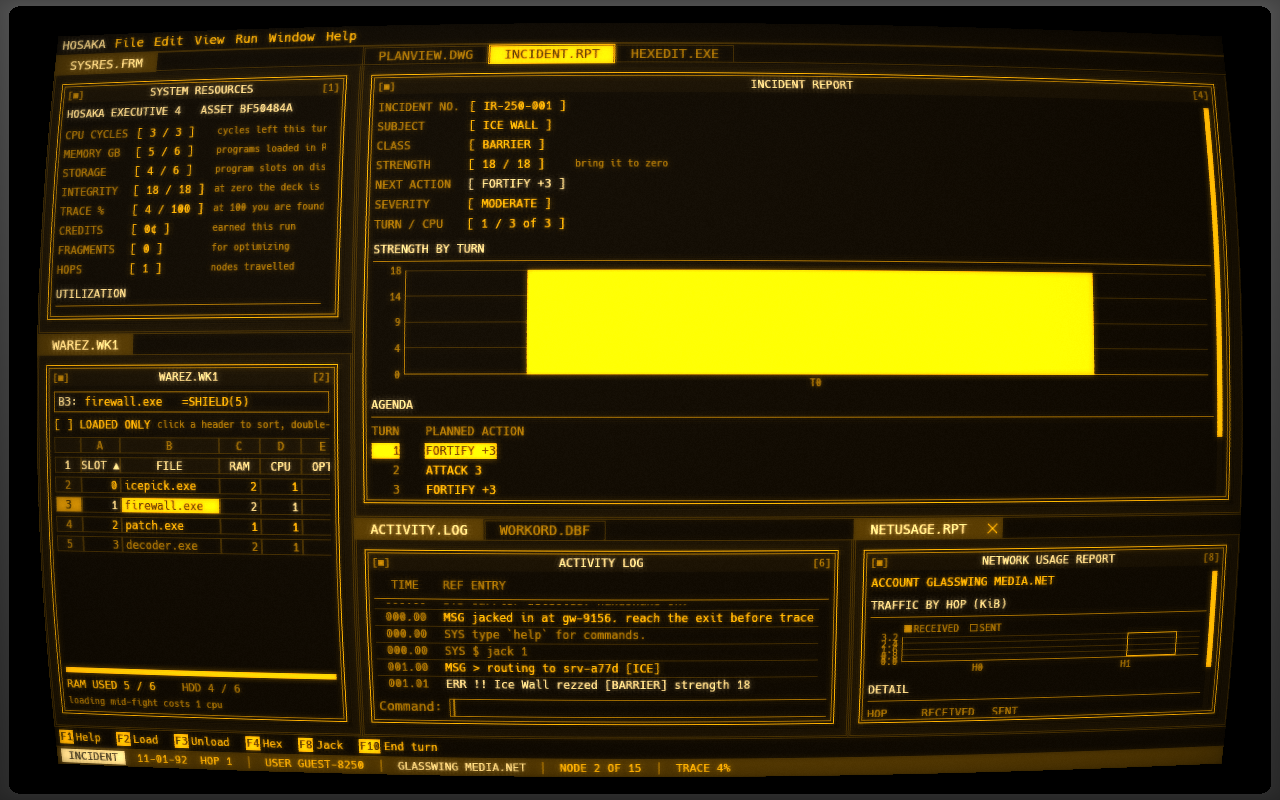
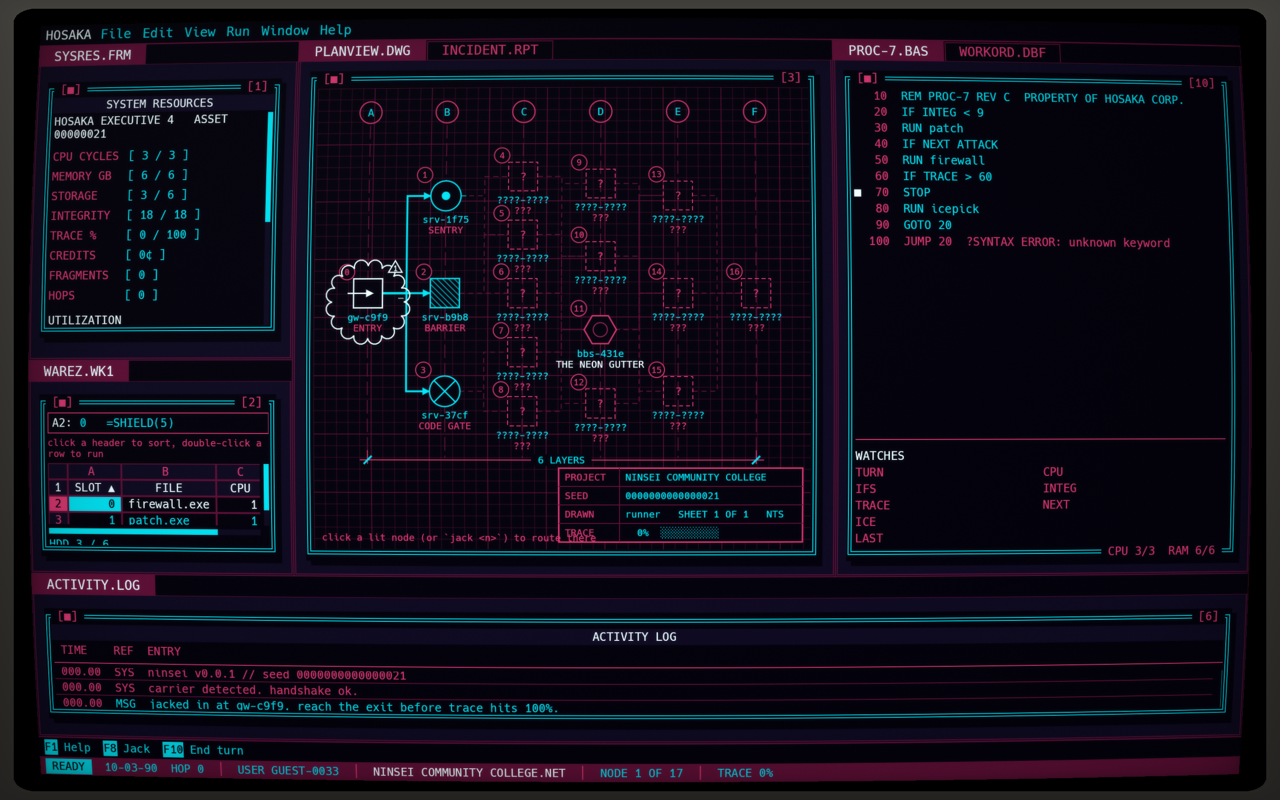
docs: step 6 — shots, review, docs
PROC-7.BAS in and out of an incident on amber and Synthwave, and the suite's run shot retaken. The review gave the windows over the activity log and the resources form more room, so the form reads whole. design.md marks the Hosaka built and corrects its F-keys (F8 Step, F4 Pause; never F7), and architecture.md describes the shared listing and the Module window.

diff --git a/crates/app/src/suite.rs b/crates/app/src/suite.rs
@@ -1365,8 +1365,8 @@ const SUITE_MENUS: Menus = &[
 mod tiles {
     pub const LEFT: f32 = 0.22;
     pub const CENTRE_OF_REST: f32 = 0.56;
-    pub const OVER_LOG: f32 = 0.72;
-    pub const DECK: f32 = 0.55;
+    pub const OVER_LOG: f32 = 0.77;
+    pub const DECK: f32 = 0.6;
     pub const LOG_OF_BOTTOM: f32 = 0.6;
 }
 

diff --git a/docs/architecture.md b/docs/architecture.md
@@ -88,12 +88,12 @@ Monitors and decks live in `data/hub/hardware.ron` (`HardwareDef::validate`); wh
 
 ## The run screen
 
-- **Chromes are plug-ins.** A firmware's `hardware::Chrome` picks how the run screen is dressed; `crates/app/src/chrome.rs` maps it to a `ChromeView` (`chrome::view`): one method per pane, plus tab titles, menus (arranged from shared `MenuPart`s), the status line, an optional bar under the panes, keys, an overlay and the default layout. Every method defaults to Classic, so a new chrome is a `Chrome` variant plus a `ChromeView` that overrides only what it changes. Never test the chrome in a pane; ask the view. `btop.rs` (`Chrome::Btop`), `suite.rs` (`Chrome::Suite`, the Hosaka) and `stack.rs` (`Chrome::Stack`, the Sense/Net: HyperCard, 1-bit; `ChromeView::one_bit` keeps glitches from splitting colour, `ChromeView::palette` folds the run to ink on paper, `ChromeView::dock_style` dresses the panels as HyperCard windows, and its **Script pane** is the **Script card**, on screen the whole run beside the ICE card: `ninsei_core::stack_fight::card` decides it (with `Card::fighting` and `Card::budget_words`: the budgets left this turn in a fight, the deck's limits a turn outside one, where Step, Run and Pause stay greyed) (the program's lines as `Block`s with their `Field`s, pop-up menus that list only the disk and number fields, the ▶ on the line about to run, which of Step, Run and Pause can be pressed, and the budgets in words), and `stack_fight::{set_field, add, insert_before, remove, swap}` turn an edit into one `Action::Program` with one line rewritten, so the card holds nothing of its own; `stack.rs` only draws it with the Liza kit (`popup_menu`, `text_field`, `dotted`, `push_button`), scrolling rows of their own heights a whole row at a time, a palette chip clicked or dragged (egui's drag and drop, `BlockKind` the payload) to add a block, a click on a block selecting it (view state in egui memory, by line number, dropped when the line goes) for the palette's move and clear boxes (`stack_fight::moved_to` says where a moved block lands, so the selection follows it), the Deck card's bars sized to the column (`bar_width`), and its keys through `ChromeView::keys` before the shared hotkeys: Enter presses Run, Esc pauses a running program and never closes anything) are the three so far; the suite's rules (sheet sorting, formulas, axes, work-order totals, dialogs via `suite::Watch`) live in core's `suite.rs`. The btop chrome's **Script pane** is the **`ice.bas` tile** (`btop::script`), on screen the whole run in the right column of its three-column default layout (deck.sys over warez/, the map, `ice.bas` in front of todo, over the terminal): `ninsei_core::btop_fight` decides it (`rows`: each line's number, text, gutter mark (`Gutter::Current` ▶, `Gutter::Stop` ●), dimming and fault, stray text last; `note`: `cpu 2/3  ram 4/6`, the deck's limits outside a fight; `keys`: which of run, step, continue and pause press; `home`/`moved`/`open_after` for the cursor and a new line's number, through `basic::Program::free_line_between`, which the Stack's drop shares; `retype`/`delete` turn an edit into one `Action::Program` with one line rewritten), and the app only draws it on the chrome's cells (`btop::boxed_lit`, its border lit while it has the keys) and routes keys. The tile's keyboard focus is an egui focus id (`script::id`, taken by a click, its arrows, Tab and Esc locked to it); its letters are read in `ChromeView::keys` before the shared hotkeys and only while it has the focus, and they and every typed character are taken out of the frame, so the terminal types whenever the tile isn't focused; `ChromeView::script_has_keys` tells the shared hotkeys a pane holds the keys without typing, so Space and the digits still work the hotbar. Retyping a line puts a `ninsei_term::widget::line` over that row under its own focus id (`script::edit_id`), which holds the keyboard like any typing (Enter commits, Esc or a click away puts the old text back). View state (the cursor and the line being retyped, by line number, and a `kit::List` for the window, which keeps the row being retyped, the cursor while focused, or the line about to run in view and takes the wheel a fraction of a row at a time) is egui memory. Which keys press, editor keys included, and the legend at the tile's foot are core's (`btop_fight::keys`, `Keys::legend`). The btop chrome (`crates/app/src/btop.rs`) keeps its timings in `btop::anim` and colours its gradients with `btop::ramp` (`faint → dim → fg → bright`); dot-graph maths is `history::plot`, tested in core; the font has no braille, so the app paints the dots. Both chromes lay their frames out on the kit's cells in their own 12pt type: btop's boxes (`btop::boxed`: the border through the outer cells, the title turned into the top edge `┐title┌` and a note turned up into the bottom one `┘note└`, both cut with `…` to fit, the body 10px and 12px inside the line as before, and always drawn, however small the box) meters (`Cells::gauge` with dotted unlit cells: a little thinner than the old meter and square-cornered, the kit's cell) and the warez table, whose NAME is as wide as the widest real name, dropping CPU before it would slice one; the suite's document window (`suite::window`: the kit's double frame with `[■]` and `[n]` set in its top edge, a heading row only for a document's own title, never repeating its tab, a 5px shadow, and the body always drawn), its status line and F-key legend (one-row kit sheets), its dialogs' bodies (a sheet, lines wrapped), its activity log (whole rows of cells through `ScrollArea::show_rows`, only the rows in view painted), and its spreadsheet, whose columns come from core's `suite::sheet_widths` (each its widest real value and its header with a sort arrow, a cell of padding either side), so nothing is cut at a clip rect.
+- **Chromes are plug-ins.** A firmware's `hardware::Chrome` picks how the run screen is dressed; `crates/app/src/chrome.rs` maps it to a `ChromeView` (`chrome::view`): one method per pane, plus tab titles, menus (arranged from shared `MenuPart`s), the status line, an optional bar under the panes, keys, an overlay and the default layout. Every method defaults to Classic, so a new chrome is a `Chrome` variant plus a `ChromeView` that overrides only what it changes. Never test the chrome in a pane; ask the view. `btop.rs` (`Chrome::Btop`), `suite.rs` (`Chrome::Suite`, the Hosaka) and `stack.rs` (`Chrome::Stack`, the Sense/Net: HyperCard, 1-bit; `ChromeView::one_bit` keeps glitches from splitting colour, `ChromeView::palette` folds the run to ink on paper, `ChromeView::dock_style` dresses the panels as HyperCard windows, and its **Script pane** is the **Script card**, on screen the whole run beside the ICE card: `ninsei_core::stack_fight::card` decides it (with `Card::fighting` and `Card::budget_words`: the budgets left this turn in a fight, the deck's limits a turn outside one, where Step, Run and Pause stay greyed) (the program's lines as `Block`s with their `Field`s, pop-up menus that list only the disk and number fields, the ▶ on the line about to run, which of Step, Run and Pause can be pressed, and the budgets in words), and `stack_fight::{set_field, add, insert_before, remove, swap}` turn an edit into one `Action::Program` with one line rewritten, so the card holds nothing of its own; `stack.rs` only draws it with the Liza kit (`popup_menu`, `text_field`, `dotted`, `push_button`), scrolling rows of their own heights a whole row at a time, a palette chip clicked or dragged (egui's drag and drop, `BlockKind` the payload) to add a block, a click on a block selecting it (view state in egui memory, by line number, dropped when the line goes) for the palette's move and clear boxes (`stack_fight::moved_to` says where a moved block lands, so the selection follows it), the Deck card's bars sized to the column (`bar_width`), and its keys through `ChromeView::keys` before the shared hotkeys: Enter presses Run, Esc pauses a running program and never closes anything) are the three so far; the suite's Script pane is the **`PROC-7.BAS` Module window** (`suite_script`): Turbo Debugger's listing over a Watches strip in one `suite::window_with` (its double rule lit while active, `CPU 3/3  RAM 6/6` in its bottom edge), from core's `suite::{module_mark, module_note, watches}`; its F-keys come from core's `suite::Legend::keys`, one table for the legend and the keys, swapped to the Module window's (F2 Edit, F4 Pause, F8 Step, F9 Run) while it holds the keys and back to the suite's (F4 Hex, F8 Jack) otherwise, `suite::fkey_live` dimming a key that presses nothing; each step of a pass is a `LogKind::Program` line, filed as `PRG` in its activity log; the suite's rules (sheet sorting, formulas, axes, work-order totals, dialogs via `suite::Watch`) live in core's `suite.rs`. Both text decks' Script panes are **listings** on the kit's `kit::listing::Listing`, decided by core's `listing` (rows with their gutter marks and faults, which debugger and editor keys press, the cursor's home and moves, a new line's number through `basic::Program::free_line_between`, and every edit as one `Action::Program` with one line rewritten): the listing keeps the pane's focus id and view state (cursor, a `kit::List` window, the line being retyped), takes its keys through a deck's `Bind` table, drops the typing the pane holds the keys for, and puts a `ninsei_term` line editor over a retyped row; each deck only draws the rows in its look and names its keys. The btop chrome's **Script pane** is the **`ice.bas` tile** (`btop::script`), on screen the whole run in the right column of its three-column default layout (deck.sys over warez/, the map, `ice.bas` in front of todo, over the terminal): `ninsei_core::btop_fight` decides it (`rows`: each line's number, text, gutter mark (`Gutter::Current` ▶, `Gutter::Stop` ●), dimming and fault, stray text last; `note`: `cpu 2/3  ram 4/6`, the deck's limits outside a fight; `keys`: which of run, step, continue and pause press; `home`/`moved`/`open_after` for the cursor and a new line's number, through `basic::Program::free_line_between`, which the Stack's drop shares; `retype`/`delete` turn an edit into one `Action::Program` with one line rewritten), and the app only draws it on the chrome's cells (`btop::boxed_lit`, its border lit while it has the keys) and routes keys. The tile's keyboard focus is an egui focus id (`script::id`, taken by a click, its arrows, Tab and Esc locked to it); its letters are read in `ChromeView::keys` before the shared hotkeys and only while it has the focus, and they and every typed character are taken out of the frame, so the terminal types whenever the tile isn't focused; `ChromeView::script_has_keys` tells the shared hotkeys a pane holds the keys without typing, so Space and the digits still work the hotbar. Retyping a line puts a `ninsei_term::widget::line` over that row under its own focus id (`script::edit_id`), which holds the keyboard like any typing (Enter commits, Esc or a click away puts the old text back). View state (the cursor and the line being retyped, by line number, and a `kit::List` for the window, which keeps the row being retyped, the cursor while focused, or the line about to run in view and takes the wheel a fraction of a row at a time) is egui memory. Which keys press, editor keys included, and the legend at the tile's foot are core's (`btop_fight::keys`, `Keys::legend`). The btop chrome (`crates/app/src/btop.rs`) keeps its timings in `btop::anim` and colours its gradients with `btop::ramp` (`faint → dim → fg → bright`); dot-graph maths is `history::plot`, tested in core; the font has no braille, so the app paints the dots. Both chromes lay their frames out on the kit's cells in their own 12pt type: btop's boxes (`btop::boxed`: the border through the outer cells, the title turned into the top edge `┐title┌` and a note turned up into the bottom one `┘note└`, both cut with `…` to fit, the body 10px and 12px inside the line as before, and always drawn, however small the box) meters (`Cells::gauge` with dotted unlit cells: a little thinner than the old meter and square-cornered, the kit's cell) and the warez table, whose NAME is as wide as the widest real name, dropping CPU before it would slice one; the suite's document window (`suite::window`: the kit's double frame with `[■]` and `[n]` set in its top edge, a heading row only for a document's own title, never repeating its tab, a 5px shadow, and the body always drawn), its status line and F-key legend (one-row kit sheets), its dialogs' bodies (a sheet, lines wrapped), its activity log (whole rows of cells through `ScrollArea::show_rows`, only the rows in view painted), and its spreadsheet, whose columns come from core's `suite::sheet_widths` (each its widest real value and its header with a sort arrow, a cell of padding either side), so nothing is cut at a clip rect.
 - **The sound pop-out is the chrome's.** Every run screen has one control for the sound: the level (`Save::volume`, a percentage, full by default) and the switch (`Save::sound`, the same one the System app shows). `crates/app/src/volume.rs` holds what's shared: `volume::Level` read from the save, `volume::Popup` (open, and what was set when it opened, so a Cancel can put it back), `Level::to` turning a change into `Request::Volume` and `Request::SoundOn`, and `volume::start`/`volume::keys`, which take the keyboard from the command line while it's open (the run's hotkeys, the chrome's keys and the terminal's focus all stand back; however it closes, the command line gets the keys back). It never opens over something that already has the keyboard (`App::modal_up`: a BBS, a conversation, a suite notice), and one of those coming up closes it. `volume::hit` names a control drawn in cells or pixels. The chrome opens and dresses it: a `MenuPart::Sound` item worded by `ChromeView::sound_item`, and `ChromeView::sound`, drawn over the overlay while it's open. The classic default is a small window with a slider; btop puts a bar-module speaker in its status line (`ChromeView::status_extra`, which gets a `FrameCx` and returns requests) that opens a box of whole cells over it; the suite has Edit > Sound..., a dialog with OK and Cancel, drawn by the same `suite::dialog` and `suite::buttons` as its notices; Liza has View > Control Panel..., the Mac's Speaker Volume slider (0 to 7) and a Sound box in a striped window (`liza::window_frame`). Notches map to the level through core's `hub::volume_notch` and `hub::notch_volume`. The pop-out only pushes requests; `main.rs` applies them to the save and the speaker.
 - **Panes are modular, and secondary panes are owned.** `panes::Tab` lists every pane: `Tab::CORE` are always there; `Tab::SECONDARY` pairs each extra pane with its id in `data/hub/panes.ron` (`PaneDef`). A secondary pane is available when bought in RIG (`Save::buy_pane`, `Save::panes`) or bundled with the firmware (`FirmwareDef::panes`); read it with `Save::has_pane`. A new pane is a variant, an id, a catalog entry and a renderer, dressed by each chrome (`ChromeView::net` is the pattern). `Tab::Script` is a core pane: the deck's program, on screen from a run's first frame, dressed by `ChromeView::script` (the classic dress is the terminal's `prog` listing until a deck designs its own; the Stack's is the Script card, below under Chromes). The two secondary panes so far are `net` (traffic, bundled with Cyberspace 7.0) and `vis` (`Tab::Vis`, sold only): what the speaker is playing, from `Panes::hear`, which calls `Speaker::listen` only when a vis pane is drawn (a tab behind another one never asks), and `vispane::alive` asks for frames only while something is heard. It never reads the game. The maths is core's `scope.rs` (a Hann-weighted radix-2 FFT into bars spaced evenly in pitch, levels in dB, and `ballistics`: bars jump up and fall at `FALL_PER_SEC`). `vispane.rs` has the shared parts: the trace, `bars` (asks for frames only while a bar is still falling, so silence is still), and `held` (numbers take a new reading every `HOLD_SECS`, so they never strobe). btop draws a box of cell columns (`Cells::meter_up`), the suite a SOUND LEVEL REPORT (a form and a band chart in dB), and the Stack chrome (the Sense/Net) a 1-bit Scope card with a dotted ink graticule. The default layout is the chrome's (`ChromeView::default_layout`) with the panes the player has; the player's layout is saved per firmware (keyed by maker and firmware id, so it follows a brand's models) in `Save::layouts` as opaque RON the app writes (`Save::set_layout`/`layout`, core never parses it). Anything that won't read back or lacks a core pane falls back to the default, and panes the player doesn't have are dropped (`parse_layout`).
 - **The network map has three views.** `crates/app/src/netmap.rs` holds what they share (fog, targets, tags, clicks, the hint) and hands off to `netmap_iso.rs` (wireframes over a grid), `netmap_draft.rs` (a flat technical drawing) or `netmap_paint.rs` (a 1-bit picture, nodes filled with patterns from `data/patterns.ron`, two colours only), picked by the deck's firmware (`Save::firmware_def(..).map`). Shapes, symbols and paint fills per node kind are data (`data/netmap.ron`, `MapStyleDef::validate`, paint fills checked against the patterns); meshes, the isometric camera (`Iso`) and node placement (`netview::flat_layout`) live in core (`netview.rs`) and are tested there. Map colours come from the palette: grid `faint`, wires `fg`, fills `dim`, highlights `bright`. Map animation (derez bursts, the jack-in sweep, trace pressure, hover) lives in `netmap::Anim`, remembered in egui's memory rather than the game, with every timing in `netmap::anim`; the hop trail comes from `Game::travelled`.
 - **Fights have a view; the preview is the rule.** `Game::preview(slot)` (`crates/core/src/fight.rs`) says what running a program would do now or why it can't, and `Action::Run` resolves through it, so a hint can never disagree with what happens. Nothing loads: every program on the HDD can run (`Slot` has no loaded flag, warez have no RAM cost, binary byte 07 is reserved, and the hex editor's budget is `BUDGET_PER_CPU * cpu + BUDGET_PER_OPT * opt`).
-- **Fights run a program** (design: `docs/design.md`, "Fights: the deck runs a program"). The language is `crates/core/src/basic.rs`: `basic::parse` turns text into a `Program` of numbered `Line`s (`Stmt::Run`, `If(Cond)`, `Goto`, `Stop`, `Rem`, and `Bad` for a line that doesn't parse, kept and skipped so a typo never halts a fight; `Program::fault` names what's wrong, a GOTO to nowhere included; text with no line number is `Program::stray`, kept as typed and never run), `Program::text` prints it back, `set_line`/`remove` edit it, and `basic::names` says what a program name in a RUN or HAVE matches (name, file name or factory id), for fights and validation alike; it knows nothing of a fight. The deck holds one program: `Save::program` (`None` until a run ends: the starting kit's, `StartsDef::program`, where a kit without one ships the default kit's, read with `Save::program_text`; `Data::validate` rejects a kit program with a bad line or a RUN or HAVE naming no warez through `hub::program_fault`), handed to the run as `Kit::program`, parsed into `Game::program` and written back by `Save::record` however the run ended. `Game::exec` (`Exec`: an `ExecState` of `Paused`, `Running` or `Stopped(line)`, the line about to run, and this turn's pass as `Step`s) is reset at each fight's start with the cursor on the first line. `Action::Step` runs one pass (`Game::pass`): from the top (or past a STOP) until the program ends, a STOP, the cycles run out or `Combat::ifs` (one GB of `deck.ram_max` per IF evaluated, reset each turn) is empty; each RUN finds its slot by name (`Game::slot_named`), asks `preview`, and is applied as `Action::Run`, so history and cues hear each one; then, unless it stopped or hung, `Action::EndTurn`. Each step is said in the log as it happens (`Game::step_text`; a RUN says nothing more than the program's own line), so the pass reads before what the ICE does after it. A pass that comes back to a line without running anything is a hang: `?BREAK IN <line>`, the debugger has the turn and the turn doesn't end. A false IF skips its line, and a skipped IF skips its own (two IFs in a row are an AND). `Action::Play` sets `Running` and runs a pass, and the app's frame loop plays a `Running` program a pass every `PASS_SECS` (`drive_program` in `main.rs`); `Pause` hands the turn back; after a STOP (`Stopped(line)`) the next Step or Play carries on past it in the same turn; `Program(text)` replaces the program at any time (after a STOP it carries on from the first line past it), and the hotbar's `Action::Run` works whatever the state. Views read `Game::program_view` (each line's text, the current line, STOP and fault marks, the budgets left, the pass) and `Game::step_text` (a pass's step as the OS says it, a sentence per line), and `Game::ifs_left` for the RAM meters. The run terminal drives it (`command.rs`: `prog` lists, through `command::listing`, `prog <n> <line>` types a line in, `prog <n>` deletes it, and `step`, `play` and `pause` are the actions). The Sense/Net's fight screen is the Stack chrome's Script pane (the Script card, under Chromes) and the Ono-Sendai's is the btop chrome's (the `ice.bas` tile, under Chromes; the terminal is its prompt); until another deck has its screen, its chrome keeps the hotbar fight. The wireframe's damage is core too (`fight::broken`, `edges_left`, `break_order`) and tested there. The Ono-Sendai's fight view (`crates/app/src/fightview.rs`) is what the btop chrome's map pane shows in `Phase::Combat` (`ChromeView::network`; `ChromeView::combat_tab` brings it forward). It only reads the game, keeps its animation state in egui memory and its timings in `fightview::anim`, and runs programs through `Panes::act`.
+- **Fights run a program** (design: `docs/design.md`, "Fights: the deck runs a program"). The language is `crates/core/src/basic.rs`: `basic::parse` turns text into a `Program` of numbered `Line`s (`Stmt::Run`, `If(Cond)`, `Goto`, `Stop`, `Rem`, and `Bad` for a line that doesn't parse, kept and skipped so a typo never halts a fight; `Program::fault` names what's wrong, a GOTO to nowhere included; text with no line number is `Program::stray`, kept as typed and never run), `Program::text` prints it back, `set_line`/`remove` edit it, and `basic::names` says what a program name in a RUN or HAVE matches (name, file name or factory id), for fights and validation alike; it knows nothing of a fight. The deck holds one program: `Save::program` (`None` until a run ends: the starting kit's, `StartsDef::program`, where a kit without one ships the default kit's, read with `Save::program_text`; `Data::validate` rejects a kit program with a bad line or a RUN or HAVE naming no warez through `hub::program_fault`), handed to the run as `Kit::program`, parsed into `Game::program` and written back by `Save::record` however the run ended. `Game::exec` (`Exec`: an `ExecState` of `Paused`, `Running` or `Stopped(line)`, the line about to run, and this turn's pass as `Step`s) is reset at each fight's start with the cursor on the first line. `Action::Step` runs one pass (`Game::pass`): from the top (or past a STOP) until the program ends, a STOP, the cycles run out or `Combat::ifs` (one GB of `deck.ram_max` per IF evaluated, reset each turn) is empty; each RUN finds its slot by name (`Game::slot_named`), asks `preview`, and is applied as `Action::Run`, so history and cues hear each one; then, unless it stopped or hung, `Action::EndTurn`. Each step is said in the log as it happens (`Game::step_text`; a RUN says nothing more than the program's own line), so the pass reads before what the ICE does after it. A pass that comes back to a line without running anything is a hang: `?BREAK IN <line>`, the debugger has the turn and the turn doesn't end. A false IF skips its line, and a skipped IF skips its own (two IFs in a row are an AND). `Action::Play` sets `Running` and runs a pass, and the app's frame loop plays a `Running` program a pass every `PASS_SECS` (`drive_program` in `main.rs`); `Pause` hands the turn back; after a STOP (`Stopped(line)`) the next Step or Play carries on past it in the same turn; `Program(text)` replaces the program at any time (after a STOP it carries on from the first line past it), and the hotbar's `Action::Run` works whatever the state. Views read `Game::program_view` (each line's text, the current line, STOP and fault marks, the budgets left, the pass) and `Game::step_text` (a pass's step as the OS says it, a sentence per line), and `Game::ifs_left` for the RAM meters. The run terminal drives it (`command.rs`: `prog` lists, through `command::listing`, `prog <n> <line>` types a line in, `prog <n>` deletes it, and `step`, `play` and `pause` are the actions). The Sense/Net's fight screen is the Stack chrome's Script pane (the Script card, under Chromes), the Ono-Sendai's is the btop chrome's (the `ice.bas` tile, under Chromes; the terminal is its prompt) and the Hosaka's the suite's (the `PROC-7.BAS` Module window, under Chromes; its trace is the activity log); a chrome that dresses no Script pane shows the `prog` listing. Each step of a pass is logged as `LogKind::Program`. The wireframe's damage is core too (`fight::broken`, `edges_left`, `break_order`) and tested there. The Ono-Sendai's fight view (`crates/app/src/fightview.rs`) is what the btop chrome's map pane shows in `Phase::Combat` (`ChromeView::network`; `ChromeView::combat_tab` brings it forward). It only reads the game, keeps its animation state in egui memory and its timings in `fightview::anim`, and runs programs through `Panes::act`.
 
 ## Terminals
 

diff --git a/docs/design.md b/docs/design.md
@@ -37,7 +37,7 @@ deck ─> firmware ─────┘
 | `sounds` | `sensenet`: square beeps, a warm chord, a gentle "boing", and a run soundtrack per network tier like a 1980s Mac adventure game: square tunes over triangle basses in major keys, gentle at tier 1 and uneasy at tier 3. As the trace climbs, a quiet triangle part drops out (the countermelody, the offbeat chords or the held line in thirds) and then the tempo rises ✅ | `ono`: harsh squares, noise bursts, chiptune arpeggios, and a looping chiptune soundtrack per network tier that thins out and speeds up as the trace climbs ✅ | `hosaka`: soft sine chimes, a polite ding, a tidy shutdown tune, and hold music for the runs: a tune per network tier in what an office plays while you wait (sine tunes over a bossa or walking bass, major sevenths, a polite tempo). Tier 1 is the lobby, tier 2 the department and tier 3 the executive floor, still polite but colder. As the trace climbs, the calm goes wrong while staying polite: the chords or the tune drop out and it turns hollow, then the hold music hurries ✅ |
 | volume | View > Control Panel...: the Mac's Speaker Volume slider (0 to 7) and a Sound check box, in a striped window with a close box ✅ | a speaker on the status line, as a bar module shows it, that opens a btop box over it: a meter, `- 70% +` cut into the edge, `[x] mute` ✅ | Edit > Sound...: a dialog with a Volume bar, a Mute box, OK and Cancel ✅ |
 | vis pane | a Scope card: a 1-bit oscilloscope in a field ✅ | a btop box: the spectrum in columns of cells along the gradient, the level in its edge ✅ | SOUNDLVL.RPT: a sound level report, level and peak on a form, the level by band as a bar chart ✅ |
-| fights | the ICE card (the ICE, its hotbar, End Turn) in the centre, and the deck's program as a stack of blocks with Step, Run, Pause in the Script pane beside it ✅ (see *Fights*) | the map dives into the node: the ICE as a wireframe over a horizon grid, a program hotbar with previews ✅, and the deck's program in the `ice.bas` tile beside it, debugged from its keys and the terminal ✅ (see *Fights*) | an incident report with a strength chart and an agenda ✅; next: a Turbo Debugger Module window and Watches |
+| fights | the ICE card (the ICE, its hotbar, End Turn) in the centre, and the deck's program as a stack of blocks with Step, Run, Pause in the Script pane beside it ✅ (see *Fights*) | the map dives into the node: the ICE as a wireframe over a horizon grid, a program hotbar with previews ✅, and the deck's program in the `ice.bas` tile beside it, debugged from its keys and the terminal ✅ (see *Fights*) | an incident report with a strength chart and an agenda ✅, and the deck's program as `PROC-7.BAS`, a Turbo Debugger Module window with Watches, its F-keys on the legend while it's active ✅ (see *Fights*) |
 | damage | 1-bit glitches: tearing and noise, never an RGB split ✅ (pattern smears and inverted rows: an idea) | screen glitches: tearing, RGB split, corrupted text ✅ | the same, plus corporate error dialogs (idea below) |
 | add-ons | Alarm Clock, a Calculator desk accessory under the eye, a desktop pattern, MultiFinder ✅ |  |  |
 | games | a window like any program's, titled by the copy's label (`Nibbler`, `NIBBLER [2K4]`), in Liza's two colours: the field in its frame, walls and covered squares in the 50% gray pattern, blocks outlined; a **Games** menu before Special lists each copy you own ✅ | a tile, labelled in lower case like the others (`blox [phs]`), from the launcher or `run blox`; the leader's keys stay the desktop's ✅ | a window titled with its version (`Minefield 1.1`), its icon among the others ✅ |
@@ -152,9 +152,9 @@ The two decks are a start. Each new one should be a new point of view, not a pal
 
 ## Fights: the deck runs a program
 
-*Designed 2026-11-07 (task 141.1, dossier at the task note). Built by 141.2 (core), 141.4–141.6 (one screen per deck) and 141.3 (ICE that answers back). Until a deck has its screen, its chrome keeps the hotbar fight. ✅ marks what's built: the Sense/Net's Script card (141.4) and the Ono-Sendai's `ice.bas` tile (141.5).*
+*Designed 2026-11-07 (task 141.1, dossier at the task note). Built by 141.2 (core), 141.4–141.6 (one screen per deck) and 141.3 (ICE that answers back). ✅ marks what's built: the Sense/Net's Script card (141.4), the Ono-Sendai's `ice.bas` tile (141.5) and the Hosaka's Module window (141.6). Every deck has its screen; a chrome that adds none shows the terminal's `prog` listing.*
 
-**The Script is a pane, not part of the fight.** It is on screen for the whole run, in its own box, so the program is something you look after between fights as well as during one; Step, Run and Pause only press with ICE in front. Every chrome dresses the one Script pane (until a deck designs its own, it's the terminal's `prog` listing); 141.5 and 141.6 design its dress, not where it lives. The Stack's default layout is three columns over the Message box: the Deck over the Programs on the left (narrow), the Card with ICE and Hex in the centre (widest), the Script in front of To Do on the right (medium; To Do is the least used pane, so it sits behind). The btop chrome starts in the same shape over the terminal: deck.sys over warez/, the map (the fight view in a fight), `ice.bas` in front of todo.
+**The Script is a pane, not part of the fight.** It is on screen for the whole run, in its own box, so the program is something you look after between fights as well as during one; Step, Run and Pause only press with ICE in front. Every chrome dresses the one Script pane (until a deck designs its own, it's the terminal's `prog` listing); 141.5 and 141.6 design its dress, not where it lives. The Stack's default layout is three columns over the Message box: the Deck over the Programs on the left (narrow), the Card with ICE and Hex in the centre (widest), the Script in front of To Do on the right (medium; To Do is the least used pane, so it sits behind). The btop chrome starts in the same shape over the terminal: deck.sys over warez/, the map (the fight view in a fight), `ice.bas` in front of todo. So does the suite over its activity log: SYSRES.FRM over WAREZ.WK1, the plan view and the incident report, `PROC-7.BAS` in front of the work orders.
 
 **The idea.** You don't fight ICE by hand. You wrote something that does, and you watch it work. Each deck holds **one program**, kept between runs like the loadout, and every fight opens with it loaded and the cursor on Run. The run screen is already an IDE, so the fight runs like a debugger: Run plays until a STOP, Step plays one pass, Pause hands you the turn (the hotbar is the manual override), Continue gives it back. The program is edited in place, mid-fight if you like; what you leave is what the deck keeps. No window opens, nothing is saved by hand, and there is no library in version 1.
 
@@ -197,8 +197,8 @@ One pass through the program is one turn: start at the first line and run until 
 | | Sense/Net | Ono-Sendai | Hosaka |
 |---|---|---|---|
 | reference | HyperCard 1.2's button script editor and the Home stack, 1-bit | gdb's TUI in a btop box, with the C64 screen editor's way of retyping a line | Turbo Debugger 2.0: the Module window, Watches, F-keys |
-| the program | ✅ a **stack of operator blocks** (RUN, IF, GOTO, STOP) dragged in from a palette row, each with fields for its parameters; a program menu lists only the disk; the ▶ in the gutter is the line about to run; a click selects a block (a dotted marquee) and the palette's ▲ ▼ X move or clear it, as HyperCard's Objects did, so a row is only the block and fits a ~340px column | ✅ `ice.bas`: the listing in a btop box on whole cells, the line about to run lit with ▶ in the gutter, a STOP's ●, a bad line dim with its fault after it, the cursor in inverse while the tile has the keys, `cpu 2/3  ram 4/6` cut into the bottom edge (the deck's limits outside a fight); a line is retyped where it stands, C64 style, with the terminal's line editor; the keys at the tile's foot, lit while they press | `PROC-7.BAS` in a Module window: the current line in inverse, a STOP marked with a block in the gutter, the budgets in the bottom edge |
-| the debugger | the button row under the palette row: Step, Run, Pause, as rounded Mac buttons | ✅ the terminal is the prompt (the pass prints there; `step`, `play`, `pause`, `prog` are its commands), no box of its own; with the tile focused (a click; Esc gives the keys back): `r` run, `s` step, `c` continue, `p` pause, `j`/`k` or arrows move, `e`/Enter retype, `o` open a line, `d` delete; Space and the digits stay the hotbar's; the terminal types whenever the tile isn't focused | a Watches window (turn, CPU, IFs, integrity, NEXT, the ICE, the last line's effect); F1 Help, F2 Edit, F4 Run to STOP, F7 Step, F8 Pause, F9 Run, F10 Hotbar (never F5, F6, F11, F12) |
+| the program | ✅ a **stack of operator blocks** (RUN, IF, GOTO, STOP) dragged in from a palette row, each with fields for its parameters; a program menu lists only the disk; the ▶ in the gutter is the line about to run; a click selects a block (a dotted marquee) and the palette's ▲ ▼ X move or clear it, as HyperCard's Objects did, so a row is only the block and fits a ~340px column | ✅ `ice.bas`: the listing in a btop box on whole cells, the line about to run lit with ▶ in the gutter, a STOP's ●, a bad line dim with its fault after it, the cursor in inverse while the tile has the keys, `cpu 2/3  ram 4/6` cut into the bottom edge (the deck's limits outside a fight); a line is retyped where it stands, C64 style, with the terminal's line editor; the keys at the tile's foot, lit while they press | ✅ `PROC-7.BAS` in a Module window on the suite's cells: the line about to run in inverse with ▶, a STOP's ■ in the gutter, a bad line dim with its fault after it, the cursor boxed while the window is active (its double rule lit), `CPU 3/3  RAM 6/6` in the bottom edge; a line is retyped as a field in its row |
+| the debugger | the button row under the palette row: Step, Run, Pause, as rounded Mac buttons | ✅ the terminal is the prompt (the pass prints there; `step`, `play`, `pause`, `prog` are its commands), no box of its own; with the tile focused (a click; Esc gives the keys back): `r` run, `s` step, `c` continue, `p` pause, `j`/`k` or arrows move, `e`/Enter retype, `o` open a line, `d` delete; Space and the digits stay the hotbar's; the terminal types whenever the tile isn't focused | ✅ the Watches under the listing in the same window (TURN, CPU, IFS, INTEG, TRACE, NEXT, ICE, LAST: the last step as the log said it; blank outside an incident); a click makes the window active and the F-key legend becomes the debugger's, Turbo Debugger's way: F1 Help, F2 Edit, F4 Pause, F8 Step (Turbo Debugger's own), F9 Run (and carry on after a STOP), F10 End turn, with ↑ ↓, Enter, Ins, Del and Esc; with another window active, F4 Hex and F8 Jack as before. Never F5, F6, F7, F11, F12 (F7 is caret browsing); keys that press nothing now are dim on the legend |
 | the trace | the Message box, a sentence per line | a terminal line | an activity-log row with a reference number |
 
 **Set aside.** `SHIELD`, `SCRUB` and `BEST BREAKER` as keywords (the warez are the verbs); a breakpoints pane (STOP is a line; a gutter mark is a view of it, never a second mechanism); downloaded editor and debugger (they are the deck's own software, dressed per chrome; "tools are downloaded" stays about the desktop's apps); a program library (deferred); a pure deckbuilder or puzzle fights without automation.

diff --git a/README.md b/README.md
@@ -219,6 +219,12 @@ On the **Hosaka** the run screen is a 90s productivity suite. Each pane is a doc
 
 An **F-key legend** runs along the bottom: **F1** help, **F4** hex (on the sheet's cursor), **F8** jack (types `jack ` for you), **F10** end turn. The usual keys still work. The status line reads like a document: date and hop, `USER GUEST-0451`, `BRIGHTWATER MUTUAL.NET`, `NODE 4 OF 15`, `TRACE 37%`. A paid contract and the end of a session pop up as **dialogs**; Enter dismisses them, and they never block a fight.
 
+The panes start in three columns over the activity log: SYSRES.FRM over WAREZ.WK1, the plan view and the incident report in the middle, and **PROC-7.BAS** in front of the work orders on the right. PROC-7.BAS is your deck's program as a debugger's Module window: the line about to run in inverse, a STOP marked ■, a bad line dimmed with its complaint, this turn's CPU and RAM in the bottom edge, and Watches under it (turn, CPU, IFs, integrity, trace, the ICE's next move, the ICE, the last step). Click it and the F-key legend becomes the debugger's: **F8** steps, **F9** runs (and carries on after a STOP), **F4** pauses, **F2** or Enter retypes the line under the cursor, **Ins** opens a line after it, **Del** deletes it, ↑ ↓ move, Esc hands the keys back; F4 Hex and F8 Jack return when another window is active. Each step of a pass is an activity-log row filed under `PRG`.
+
+![PROC-7.BAS in an incident, amber](docs/shots/suite-fight-amber.png)
+![PROC-7.BAS in an incident, synthwave](docs/shots/suite-fight-synthwave.png)
+![PROC-7.BAS active between incidents, amber](docs/shots/suite-script-amber.png)
+
 ![the suite](docs/shots/suite-incident.png)
 ![a dialog](docs/shots/suite-dialog.png)
 
